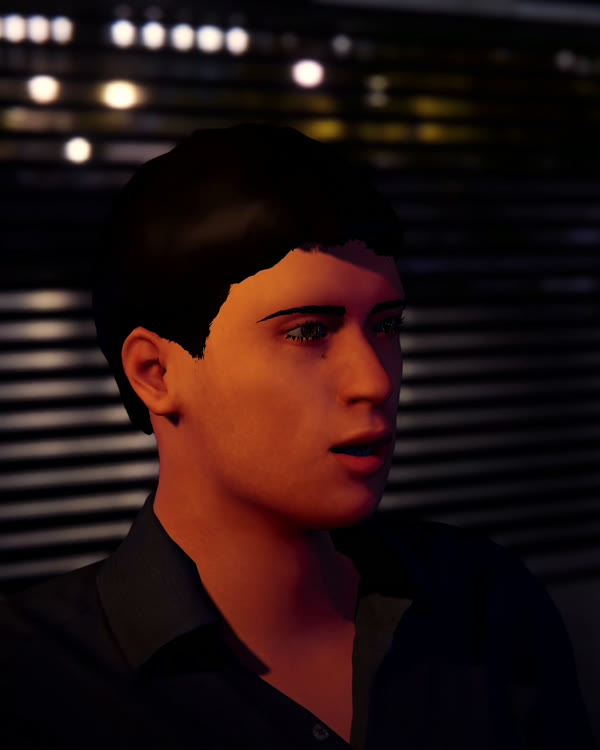
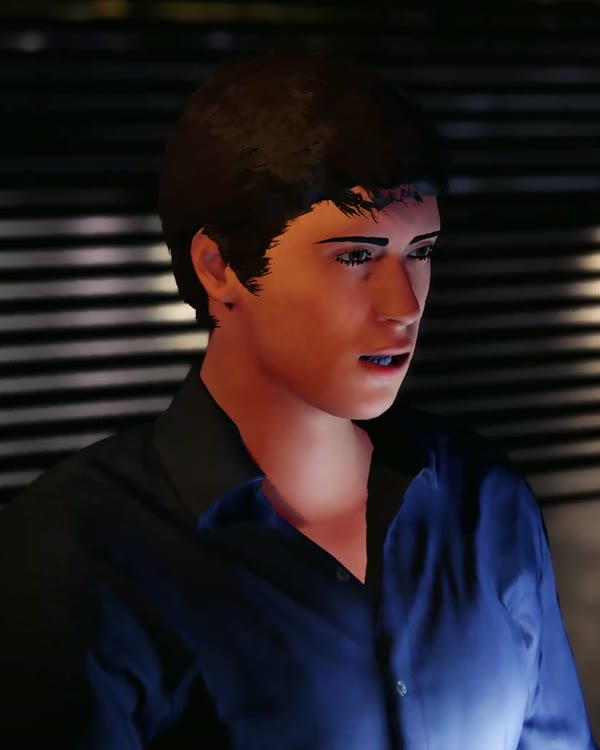
Test Beta 1.0: review fixes: hair cards with alpha-to-coverage and darker roots, warmer teeth, phone choice chips with padding and room for two lines, creator portrait head-and-shoulders, Slick and Tommy on the slicked-back shell

diff --git a/beta1/Assets/Dream/Scripts/UI/Phone.cs b/beta1/Assets/Dream/Scripts/UI/Phone.cs
@@ -183,7 +183,7 @@ namespace Dream.UI
         public void Choose(string heading, List<string> options, List<string> hints, Action<int> pick)
         {
             Ui.Clear(footer); hint.text = ""; field = null;
-            float topY = 0.03f + 0.1f * options.Count + (heading != null ? 0.045f : 0);
+            float topY = 0.03f + 0.125f * options.Count + (heading != null ? 0.045f : 0);   // room for a two-line option
             footer.anchorMax = new Vector2(0.96f, topY); Fit(topY + 0.01f);   // the conversation moves up out of the way
             float step = 1f / (options.Count + (heading != null ? 0.45f : 0));
             float top = 1;
@@ -191,7 +191,8 @@ namespace Dream.UI
             for (int i = 0; i < options.Count; i++)
             {
                 int k = i; float y1 = top - i * step, y0 = y1 - step * 0.95f;
-                var b = Ui.Button(footer, options[i], () => { field = null; Field(); pick(k); }, i == 0 ? Me : new Color(1, 1, 1, 0.1f), Color.white, 34);
+                var b = Ui.Button(footer, options[i], () => { field = null; Field(); pick(k); }, i == 0 ? Me : new Color(1, 1, 1, 0.1f), Color.white, 32);
+                var bt = b.GetComponentInChildren<TextMeshProUGUI>(); bt.margin = new Vector4(36, 8, 36, 8);   // padding inside the chip
                 Ui.At(b, 0.02f, y0 + step * 0.38f, 0.98f, y1);
                 if (i < hints.Count) Ui.At(Ui.Label(footer, hints[i], 22, Meta, TextAnchor.UpperCenter), 0, y0, 1, y0 + step * 0.34f);
             }

diff --git a/beta1/Assets/Dream/Scripts/Film/Materials.cs b/beta1/Assets/Dream/Scripts/Film/Materials.cs
@@ -12,7 +12,7 @@ namespace Dream.Film
     public static class Materials
     {
         static readonly Dictionary<string, float> Smooth = new Dictionary<string, float>
-        { ["skin"] = 0.46f, ["eyes"] = 0.95f, ["teeth"] = 0.42f, ["tongue"] = 0.5f, ["hair"] = 0.38f, ["haircards"] = 0.42f, ["brows"] = 0.2f, ["lashes"] = 0.2f };
+        { ["skin"] = 0.46f, ["eyes"] = 0.95f, ["teeth"] = 0.3f, ["tongue"] = 0.5f, ["hair"] = 0.38f, ["haircards"] = 0.42f, ["brows"] = 0.2f, ["lashes"] = 0.2f };
 
         public static Material Make(string dir, string part, Dictionary<string, object> man)
         {
@@ -32,7 +32,7 @@ namespace Dream.Film
                 m.EnableKeyword("_NORMALMAP"); m.SetFloat("_BumpScale", 1f);
             }
 #endif
-            if (part == "teeth") tint *= 0.72f;   // teeth and tongue sit in the mouth's shadow: they must never glow
+            if (part == "teeth") tint *= new Color(0.78f, 0.7f, 0.6f);   // teeth sit back in the mouth's shadow: warm, never grey pegs
             if (part == "tongue") tint *= 0.6f;
             m.SetColor("_BaseColor", tint);
 #if UNITY_EDITOR
